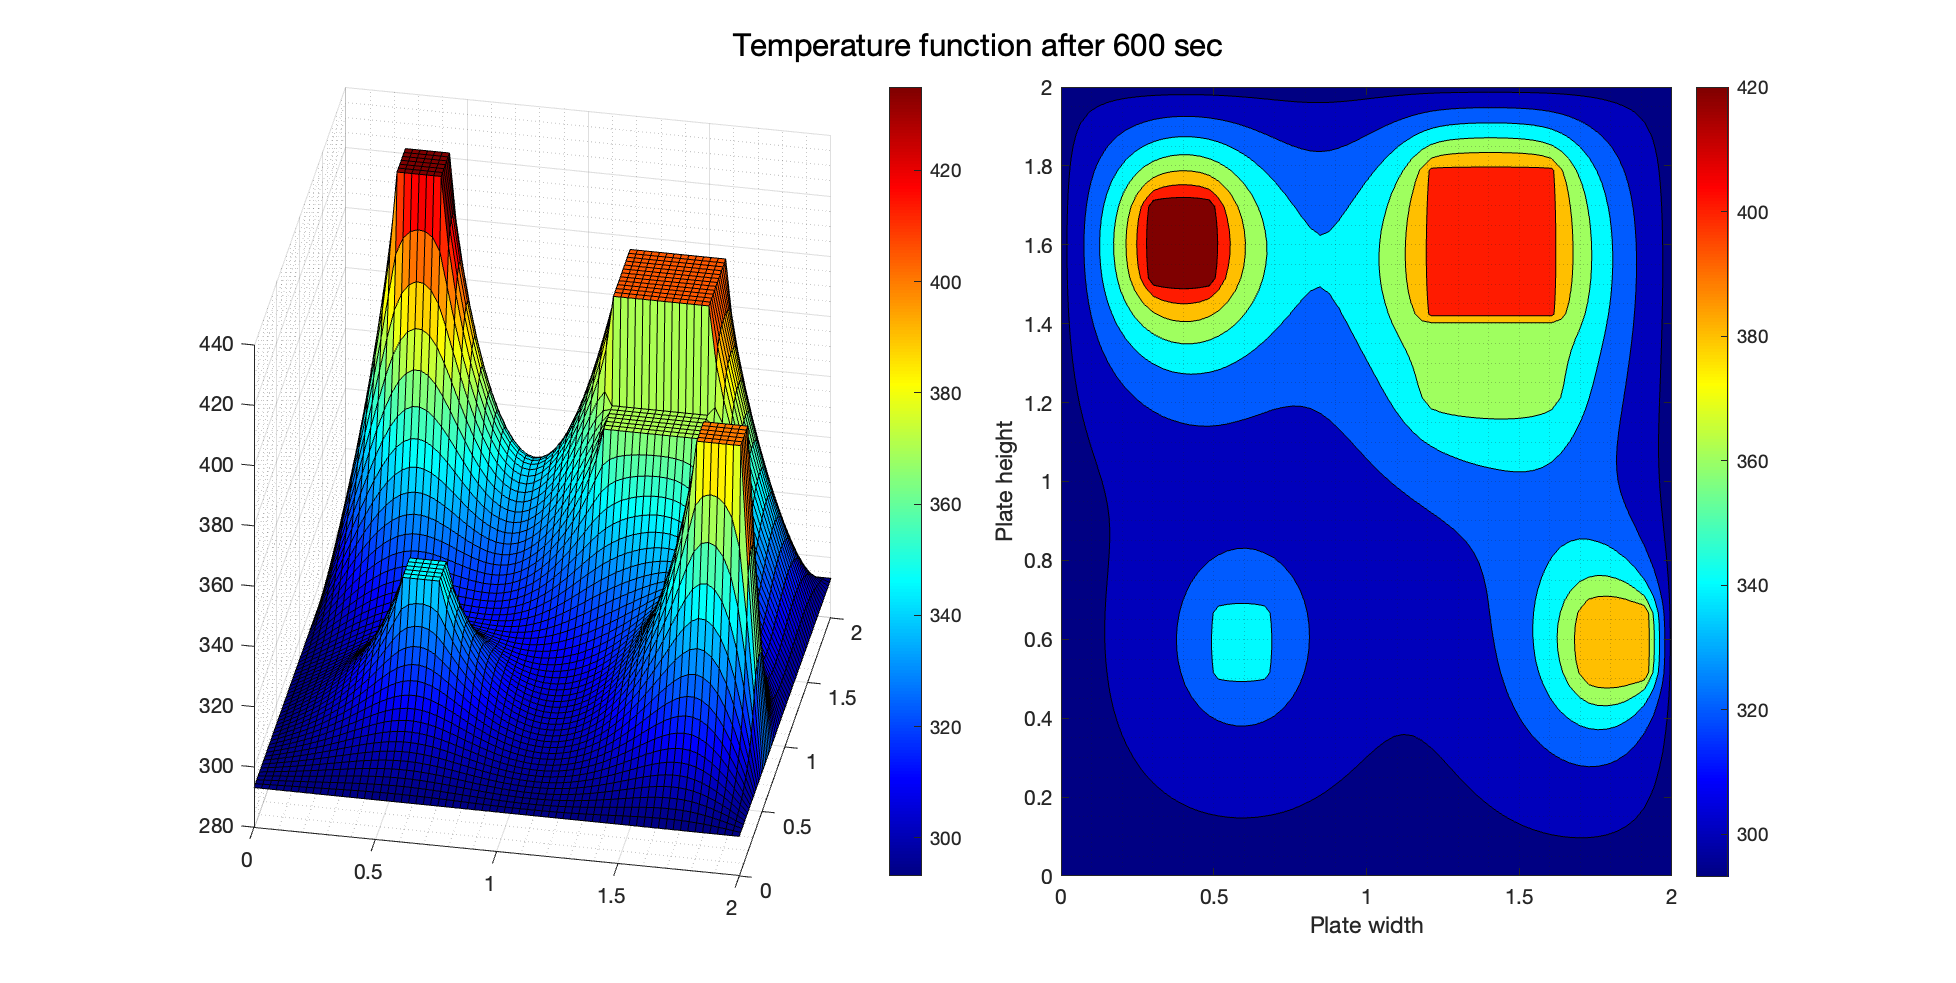
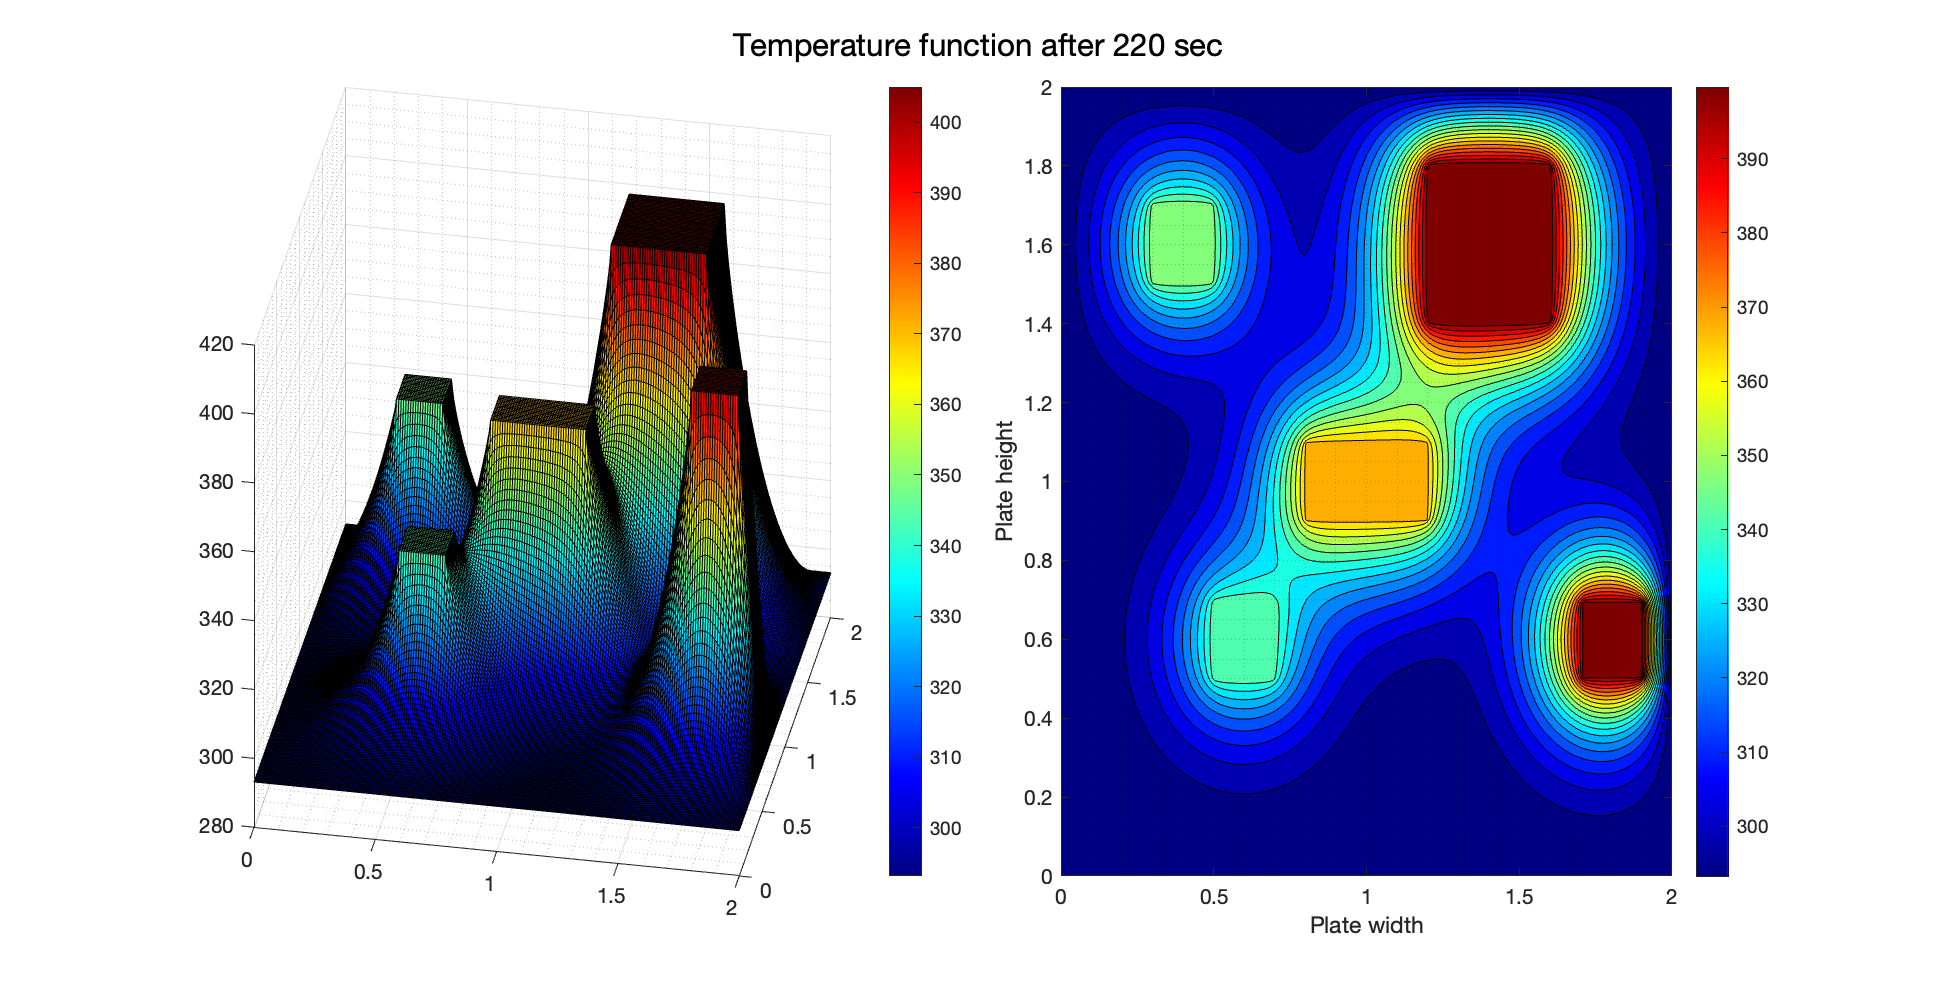
update

diff --git a/MATLAB/HeatTransfer.m b/MATLAB/HeatTransfer.m
@@ -1,13 +1,5 @@
 function HeatTransfer(DATA)
 
-    % filename = 'result.mp4';
-    % writerObj = VideoWriter(filename, 'MPEG-4');
-    % open(writerObj);
-
-    % figure;
-    % fig1 = subplot(2,4,1:4);
-    % fig2 = subplot(2,4,5:8);
-
     % Initializing all conditions pertaining the the function
     % Width
     w = DATA.MODEL.W;
@@ -35,7 +27,7 @@ function HeatTransfer(DATA)
 
 
     % Boundary conditions
-    T = ones(Lh,Lw) * DATA.BC.T_init;
+    T = ones(Lh,Lw) * DATA.BC.T_0;
     T = SetBC(T, DATA, Lw, Lh);
 
     % Run the function for each time interval
@@ -58,27 +50,6 @@ function HeatTransfer(DATA)
             T = SetBC(T, DATA, Lw, Lh);
         end
 
-        % subplot(fig1);
-        % surf(T)
-        % colorbar
-        % grid minor
-        % title(num2str(t))
-        % view([10.7092,28.5708])
-
-        % subplot(fig2);
-        % contourf(X,Y,T)
-        % colorbar
-        % grid minor
-        % xlabel('Plate width');
-        % ylabel('Plate height');
-        % zlabel('Temperature (K)');
-
-
-        % frame = getframe(gcf);
-        % writeVideo(writerObj, frame);
-
-        % drawnow;
-
     end
 
 
@@ -97,7 +68,7 @@ function HeatTransfer(DATA)
     view([10.7092,28.5708])
 
     subplot(2,4,[3,4,7,8])
-    contourf(X,Y,T)
+    contourf(X,Y,T,20)
     grid minor
     colorbar
     colormap("jet")

diff --git a/MATLAB/utilities/READ_INPUT.m b/MATLAB/utilities/READ_INPUT.m
@@ -14,7 +14,7 @@ function INPUT = READ_INPUT(filename)
     INPUT = struct();
     INPUT.MODE      = '';
     INPUT.MODEL     = struct('NAME', '', 'L', '', 'W', '', 'thick', '', 'alpha', '', 'k', '');
-    INPUT.BC        = struct('T_init', '', 'conditions', {{}});
+    INPUT.BC        = struct('T_0', '', 'conditions', {{}});
     INPUT.SETTINGS  = struct('simT', '', 'dt', '', 'dL', '', 'dW', '', 'opt', '');
 
     
@@ -28,7 +28,7 @@ function INPUT = READ_INPUT(filename)
     patterns.alpha    = 'alpha\s+([+-]?(\d+(\.\d*)?|\.\d+)([eE][+-]?\d+)?)';
     patterns.k        = 'k\s+([+-]?(\d+(\.\d*)?|\.\d+)([eE][+-]?\d+)?)';
 
-    patterns.T_init   = 'T_init\s+([\d.]+)';
+    patterns.T_init   = 'T_0\s+([\d.]+)';
     patterns.bc       = 'BC\d+\s+\[([^\]]+)\]'; % Pattern to match BC entries within square brackets
     
     patterns.simT     = 'simT\s+([\d.]+)';
@@ -87,7 +87,7 @@ function INPUT = READ_INPUT(filename)
 
 
     if ~isempty(Tinit_matches)
-        INPUT.BC.T_init = str2double(Tinit_matches{1});
+        INPUT.BC.T_0 = str2double(Tinit_matches{1});
     end
     % Process BC matches and store them in the INPUT structure
     if ~isempty(bc_matches)
